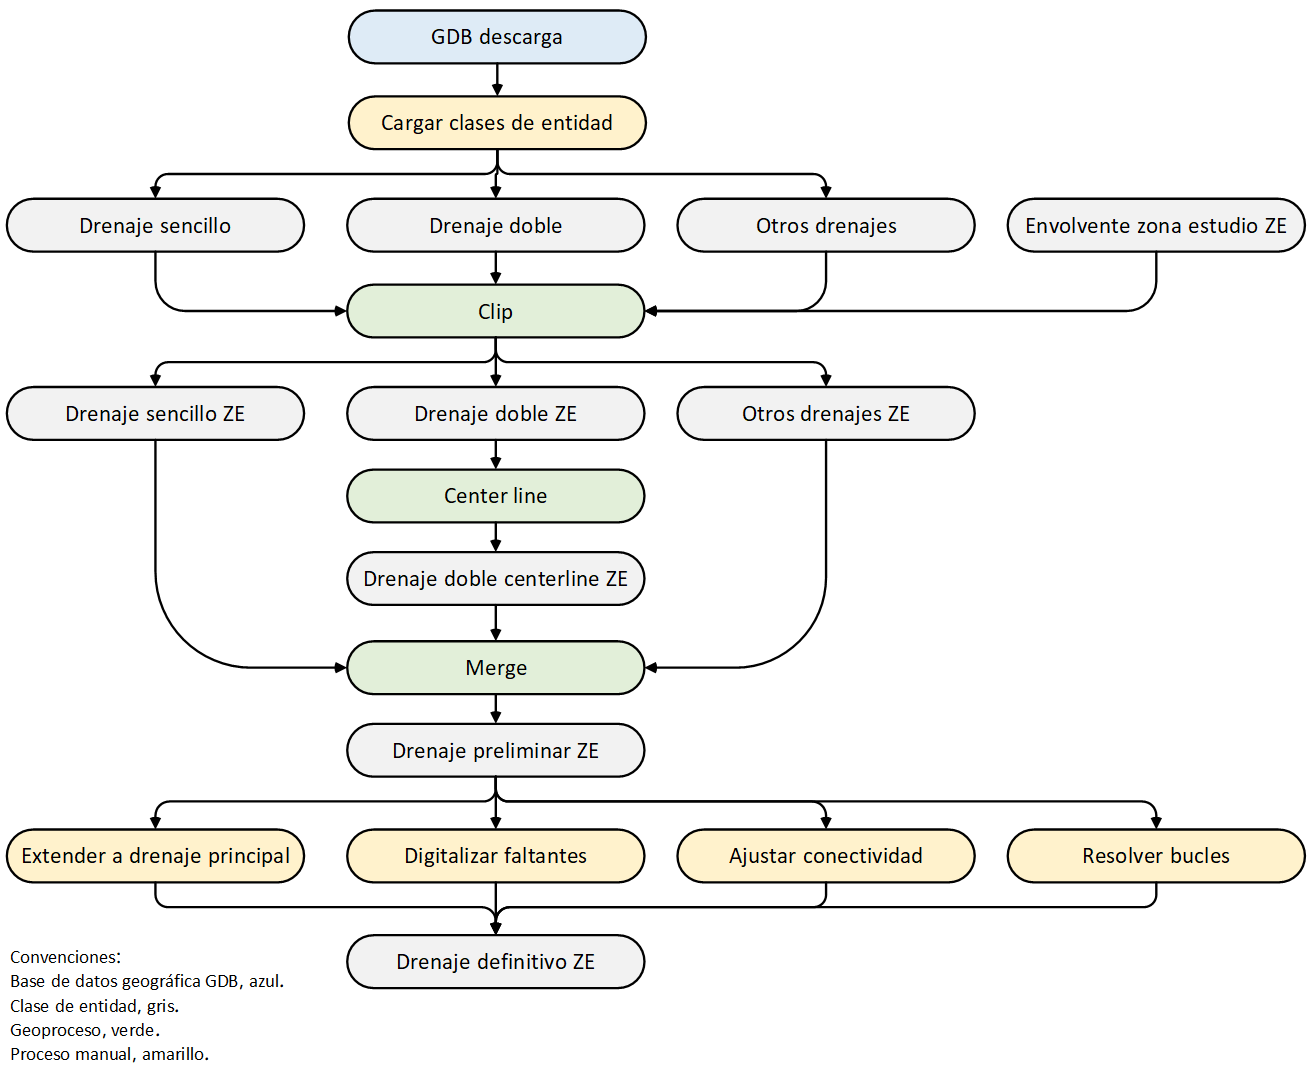
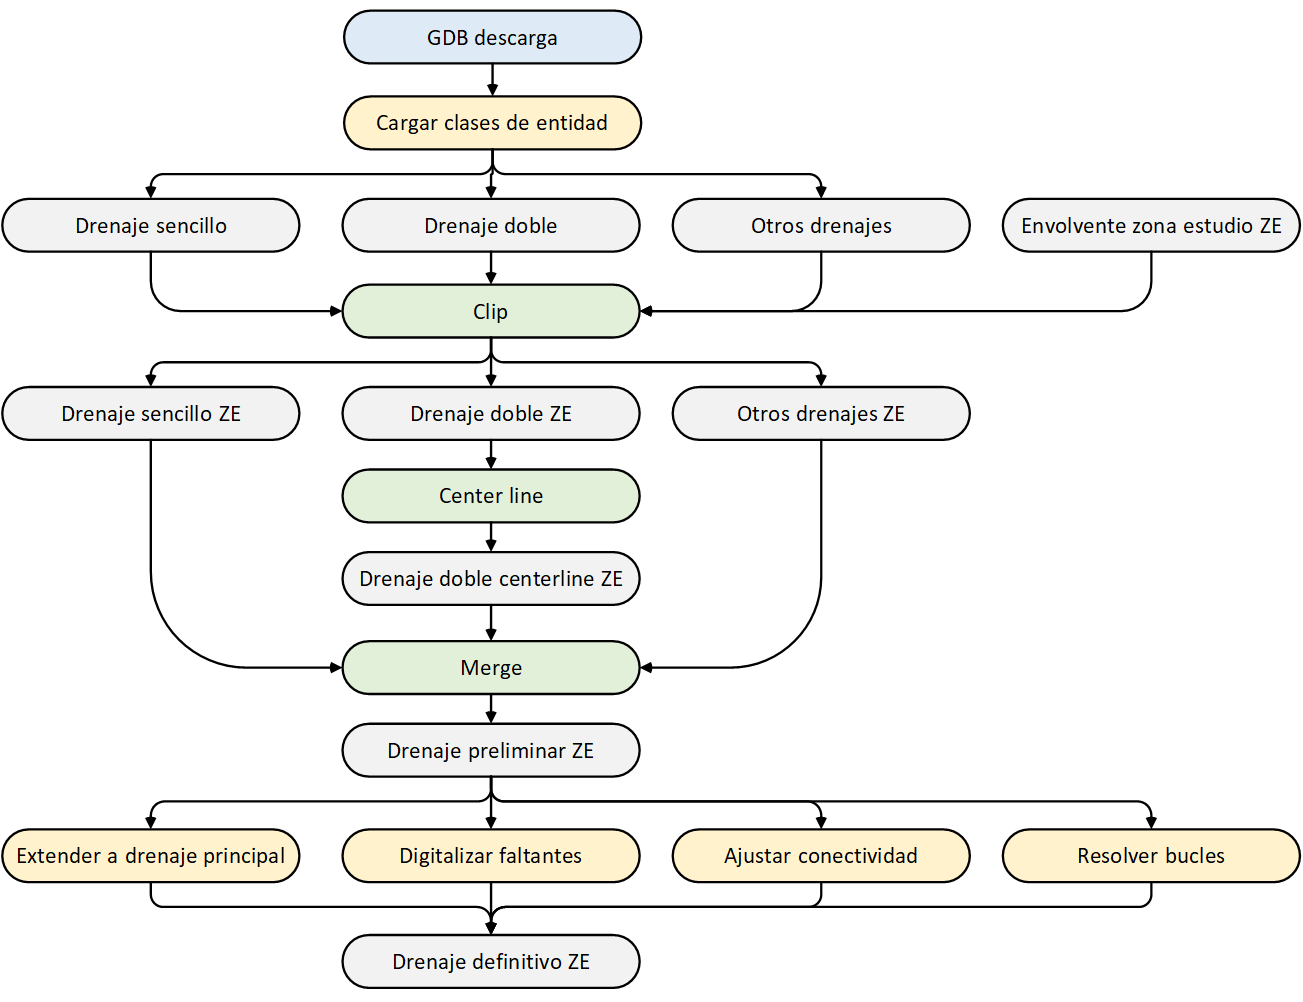
General update.

diff --git a/Section02/GDB100k/Readme.md b/Section02/GDB100k/Readme.md
@@ -7,7 +7,9 @@ Para los procesos de reacondicionamiento del modelo de terreno que garantice el 
 
 Los drenajes corresponden al flujo de agua superficial que depende de la precipitación pluvial y/o afloramiento de aguas subterráneas y van a desembocar en otra corriente, en una laguna o en el mar. Los drenajes dispersos son aquellos que no desembocan en otro cuerpo de agua, o desaparecen al ser no fotointerpretables, por ejemplo en corrientes subterráneas.[^1]
 
-<div align="center">![ArcGISPro3.0.0IGACCreateFeature3.png](https://github.com/rcfdtools/R.LTWB/blob/main/Section02/GDB100k/Graph/GDB100k.png)</div>
+<div align="center"; width="80%">![ArcGISPro3.0.0IGACCreateFeature3.png](https://github.com/rcfdtools/R.LTWB/blob/main/Section02/GDB100k/Graph/GDB100k.png)</div>
+
+Convenciones del diagrama: Base de datos geográfica GDB en azul, Clase de entidad en gris, Geoproceso en verde y Proceso manual en amarillo.
 
 ### Objetivos
 
